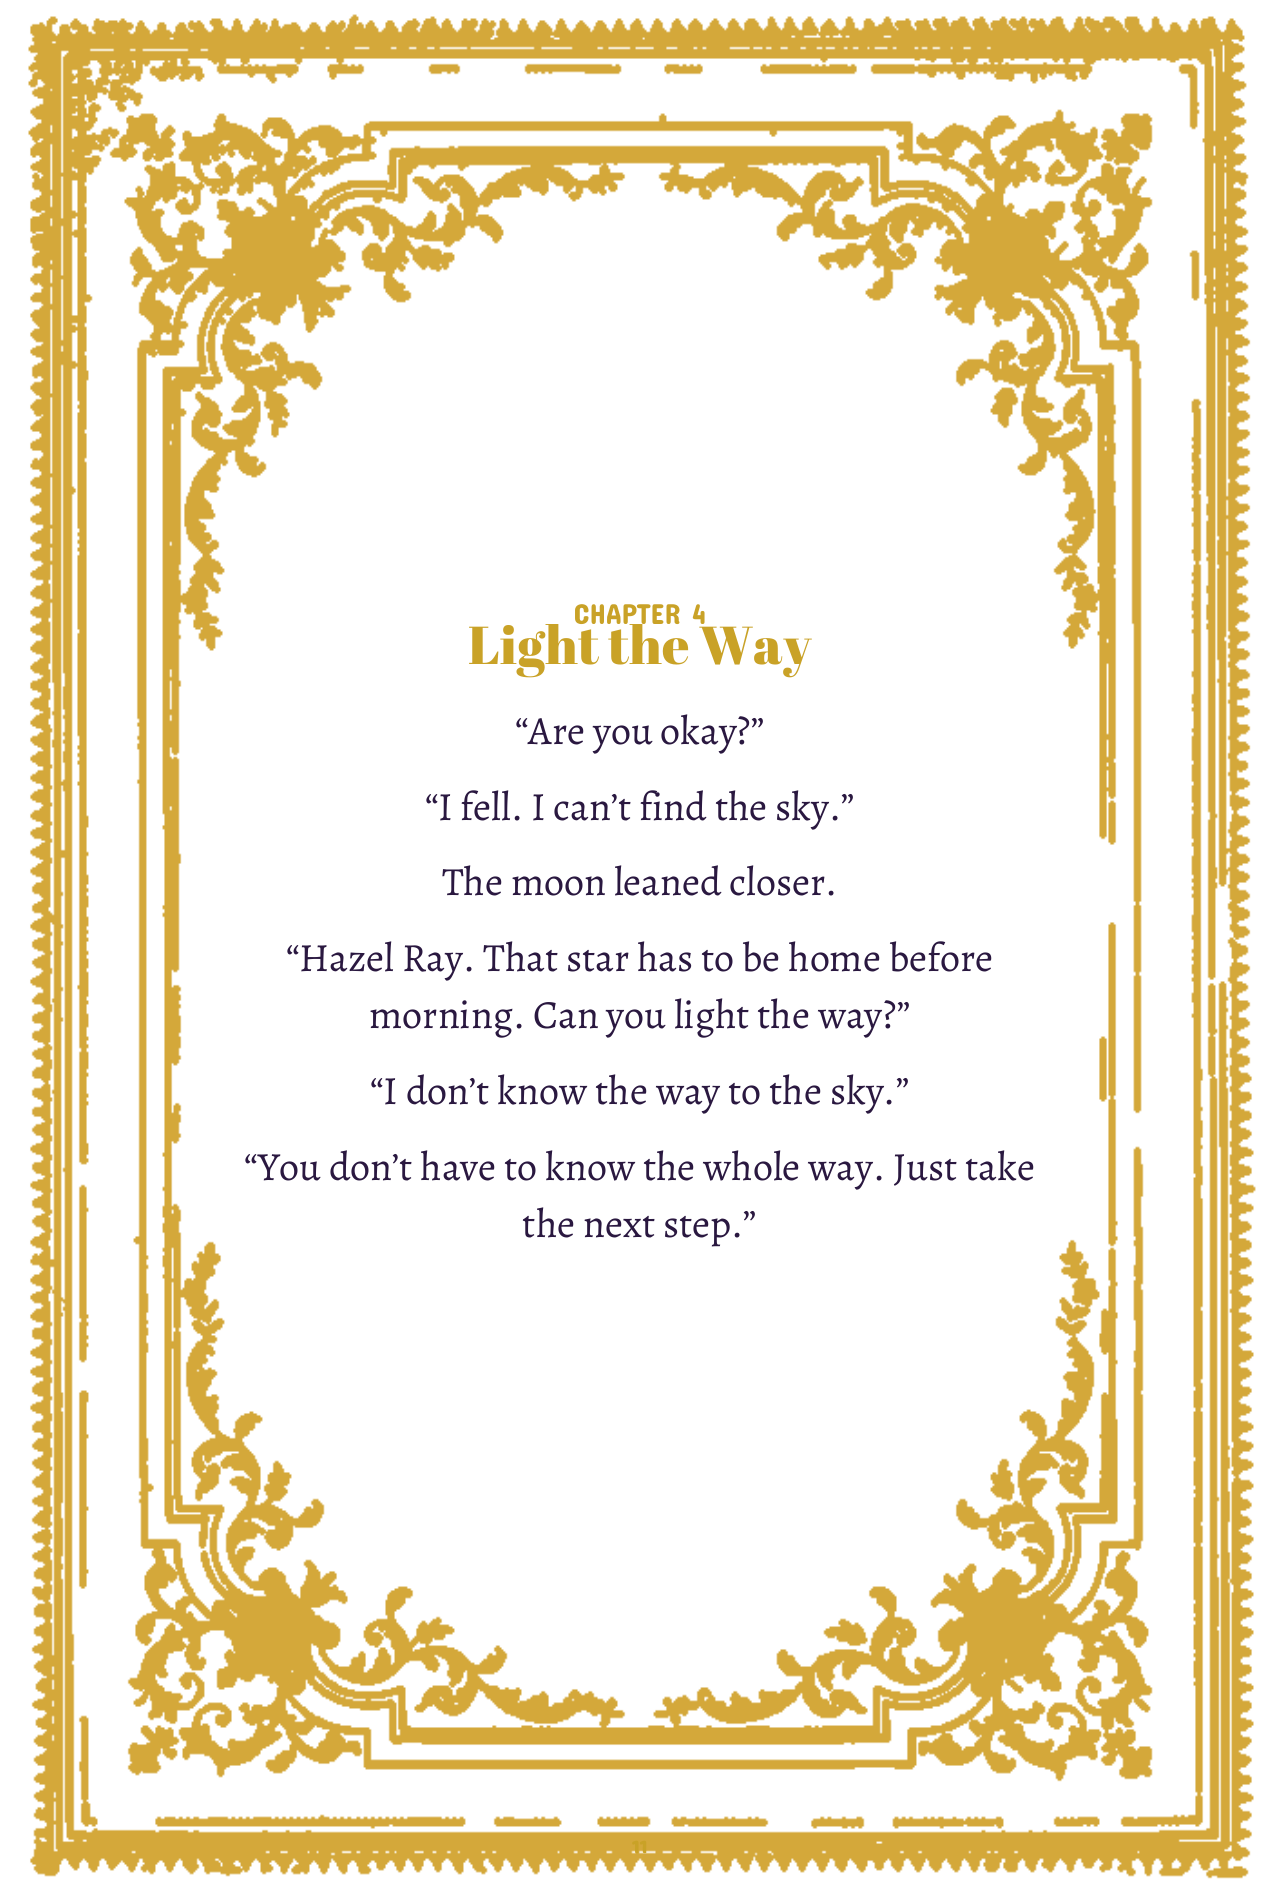
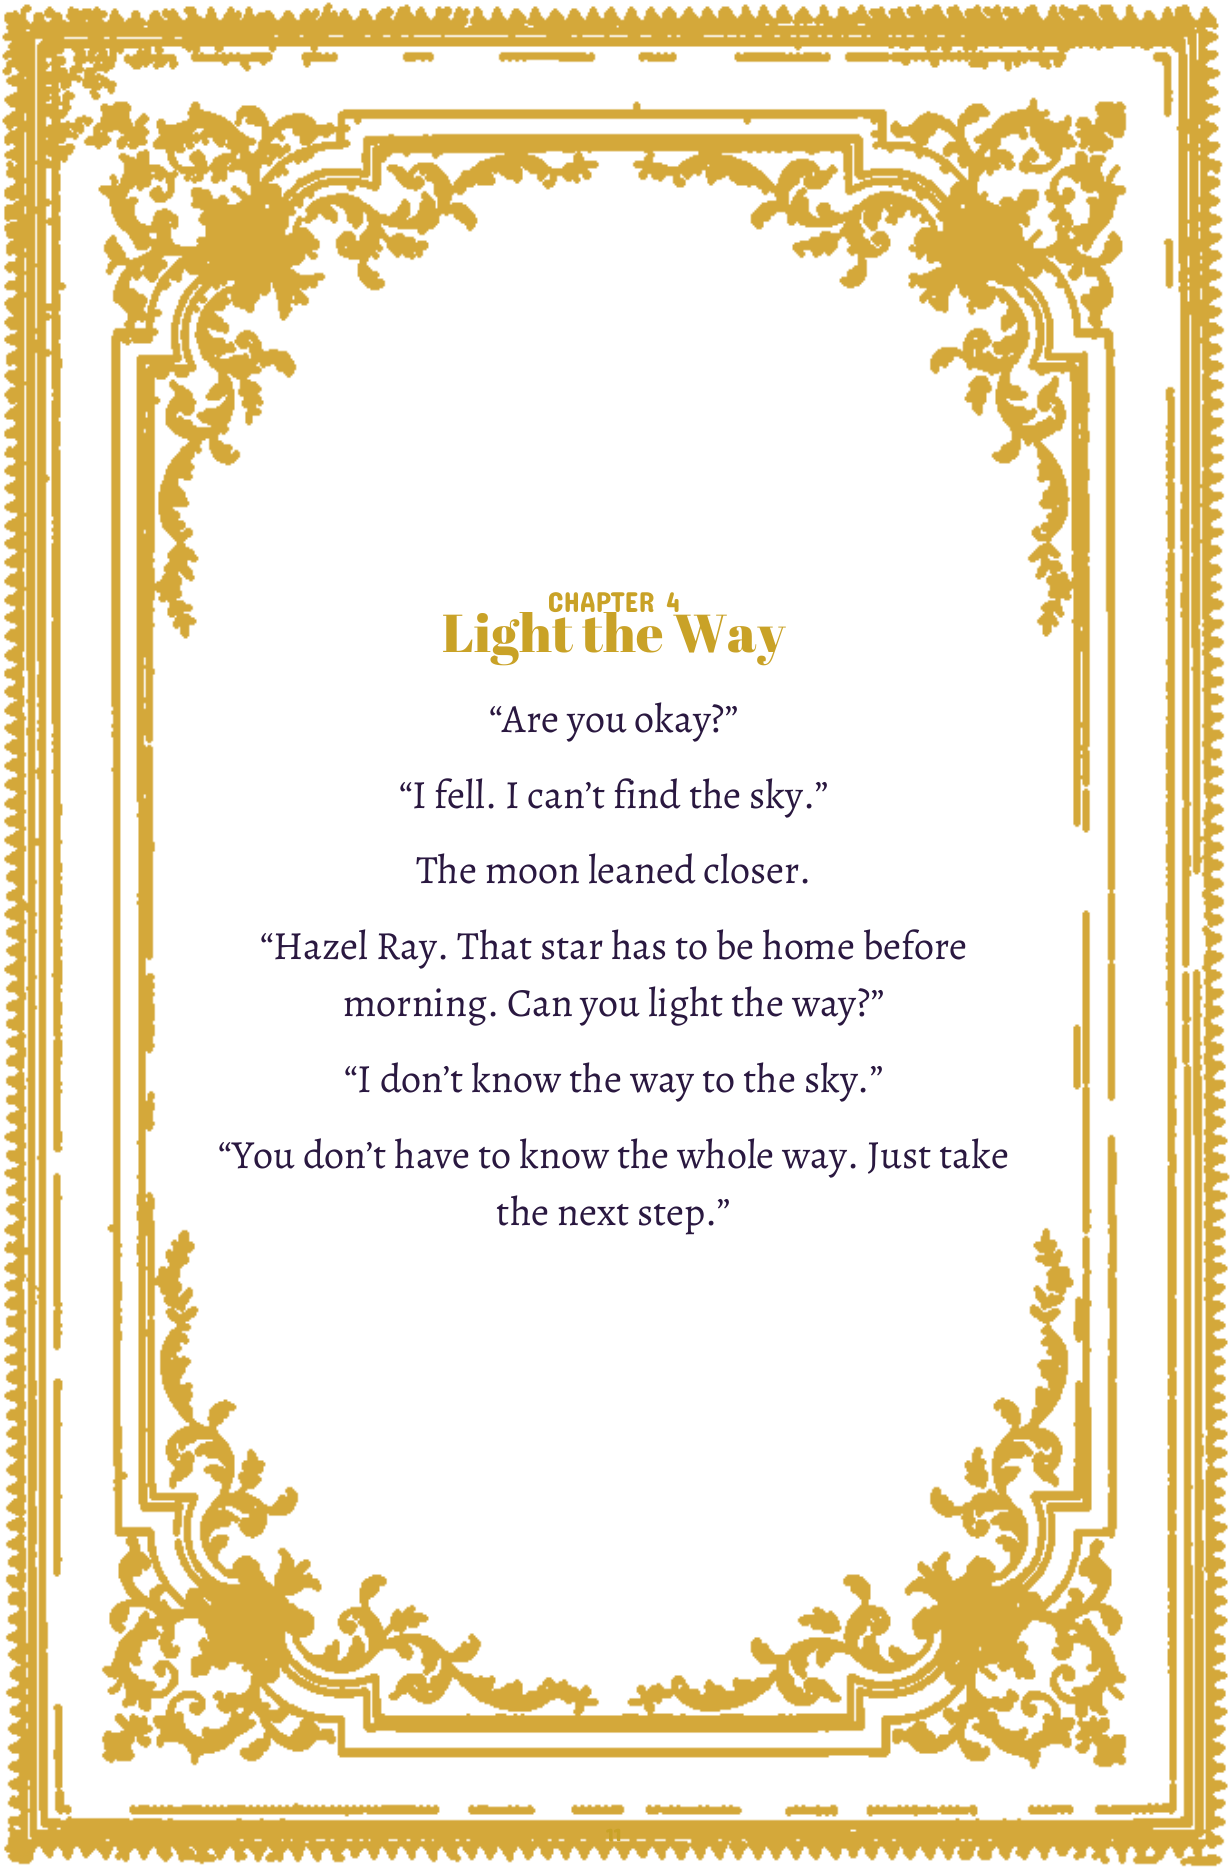
Fullscreen pin + trimmed pages + v7 stamp for cache check
Pin the stage to visualViewport, request fullscreen on tap, trim white
page margins, and show a v7 stamp so we can confirm the phone loaded
the new build (gh-pages HTML was caching for 10 minutes).

diff --git a/src/FlipBook.tsx b/src/FlipBook.tsx
@@ -1,4 +1,4 @@
-import { useCallback, useMemo, useRef, useState } from 'react';
+import { useCallback, useLayoutEffect, useMemo, useRef, useState } from 'react';
 import { PAGE_FILES } from './pages';
 import { playPageTurnSfx, unlockAudio } from './sfx';
 
@@ -11,13 +11,16 @@ function labelForPage(pageIndex: number): string {
   return `Pages ${left + 1}–${Math.min(right + 1, n)}`;
 }
 
-/** Normalize to the left page of a landscape spread (0 = cover). */
 function spreadLeft(pageIndex: number): number {
   if (pageIndex <= 0) return 0;
   return pageIndex % 2 === 1 ? pageIndex : pageIndex - 1;
 }
 
-function spreadPages(pageIndex: number): { left: number | null; right: number | null; cover: boolean } {
+function spreadPages(pageIndex: number): {
+  left: number | null;
+  right: number | null;
+  cover: boolean;
+} {
   const n = PAGE_FILES.length;
   if (pageIndex <= 0) return { left: null, right: null, cover: true };
   const left = spreadLeft(pageIndex);
@@ -46,12 +49,58 @@ type Drag = {
   dir: 'next' | 'prev' | null;
 };
 
+async function tryFullscreen(el: HTMLElement) {
+  try {
+    if (!document.fullscreenElement && el.requestFullscreen) {
+      await el.requestFullscreen();
+    }
+  } catch {
+    /* user gesture / policy — ignore */
+  }
+}
+
 export function FlipBook() {
   const stageRef = useRef<HTMLDivElement>(null);
   const dragRef = useRef<Drag | null>(null);
   const [pageIndex, setPageIndex] = useState(0);
   const [drag, setDrag] = useState<Drag | null>(null);
   const [animating, setAnimating] = useState(false);
+
+  // Pin stage to the visible viewport in CSS pixels (kills mobile letterboxing).
+  useLayoutEffect(() => {
+    const stage = stageRef.current;
+    if (!stage) return;
+
+    const sync = () => {
+      const vv = window.visualViewport;
+      const w = Math.max(1, Math.round(vv?.width ?? window.innerWidth));
+      const h = Math.max(1, Math.round(vv?.height ?? window.innerHeight));
+      const left = Math.round(vv?.offsetLeft ?? 0);
+      const top = Math.round(vv?.offsetTop ?? 0);
+      stage.style.position = 'fixed';
+      stage.style.left = `${left}px`;
+      stage.style.top = `${top}px`;
+      stage.style.width = `${w}px`;
+      stage.style.height = `${h}px`;
+      stage.style.right = 'auto';
+      stage.style.bottom = 'auto';
+      stage.style.margin = '0';
+      stage.style.inset = 'auto';
+    };
+
+    sync();
+    window.addEventListener('resize', sync);
+    window.addEventListener('orientationchange', sync);
+    const vv = window.visualViewport;
+    vv?.addEventListener('resize', sync);
+    vv?.addEventListener('scroll', sync);
+    return () => {
+      window.removeEventListener('resize', sync);
+      window.removeEventListener('orientationchange', sync);
+      vv?.removeEventListener('resize', sync);
+      vv?.removeEventListener('scroll', sync);
+    };
+  }, []);
 
   const n = PAGE_FILES.length;
   const spread = useMemo(() => spreadPages(pageIndex), [pageIndex]);
@@ -66,8 +115,9 @@ export function FlipBook() {
 
   const onPointerDown = (e: React.PointerEvent) => {
     unlockAudio();
-    if (animating) return;
     const stage = stageRef.current;
+    if (stage) void tryFullscreen(stage);
+    if (animating) return;
     if (!stage) return;
     stage.setPointerCapture(e.pointerId);
     const next: Drag = {
@@ -228,11 +278,14 @@ export function FlipBook() {
         </div>
       )}
 
+      <div className="build-stamp" aria-hidden>
+        v7
+      </div>
       {showChrome && (
         <div className="flip-stage__chrome">
           <span className="flip-stage__title">Hazel Ray Lights the Way</span>
           <span className="flip-stage__spread">{labelForPage(pageIndex)}</span>
-          <span className="flip-stage__hint">Swipe to turn</span>
+          <span className="flip-stage__hint">Swipe to turn · tap for full screen</span>
         </div>
       )}
     </div>

diff --git a/src/index.css b/src/index.css
@@ -22,12 +22,15 @@ body,
   margin: 0;
   width: 100%;
   height: 100%;
+  height: 100dvh;
   overflow: hidden;
-  background: var(--bg);
+  background: #050b14;
   touch-action: none;
   overscroll-behavior: none;
   user-select: none;
   -webkit-user-select: none;
+  position: fixed;
+  inset: 0;
 }
 
 .app {
@@ -191,6 +194,9 @@ body,
   width: 100%;
   height: 100%;
   object-fit: fill;
+  /* tiny zoom kills residual white fringe after trim */
+  transform: scale(1.02);
+  transform-origin: center;
   pointer-events: none;
   -webkit-user-drag: none;
   user-select: none;
@@ -241,4 +247,15 @@ body,
 /* Desktop convenience: allow landscape book when wide enough even if "portrait" mq fails */
 @media (min-width: 900px) and (min-height: 500px) {
   /* no-op — orientation hook uses matchMedia */
+}
+
+.build-stamp {
+  position: absolute;
+  top: 4px;
+  right: 8px;
+  z-index: 20;
+  font-size: 10px;
+  font-family: system-ui, sans-serif;
+  color: rgba(240, 215, 140, 0.55);
+  pointer-events: none;
 }

diff --git a/index.html b/index.html
@@ -10,7 +10,9 @@
     <meta name="apple-mobile-web-app-capable" content="yes" />
     <meta name="apple-mobile-web-app-status-bar-style" content="black-translucent" />
     <meta name="theme-color" content="#0a1628" />
-    <title>Hazel Ray Lights the Way</title>
+    <meta http-equiv="Cache-Control" content="no-cache, no-store, must-revalidate" />
+    <meta http-equiv="Pragma" content="no-cache" />
+    <title>Hazel Ray Lights the Way · v7</title>
   </head>
   <body>
     <div id="root"></div>
